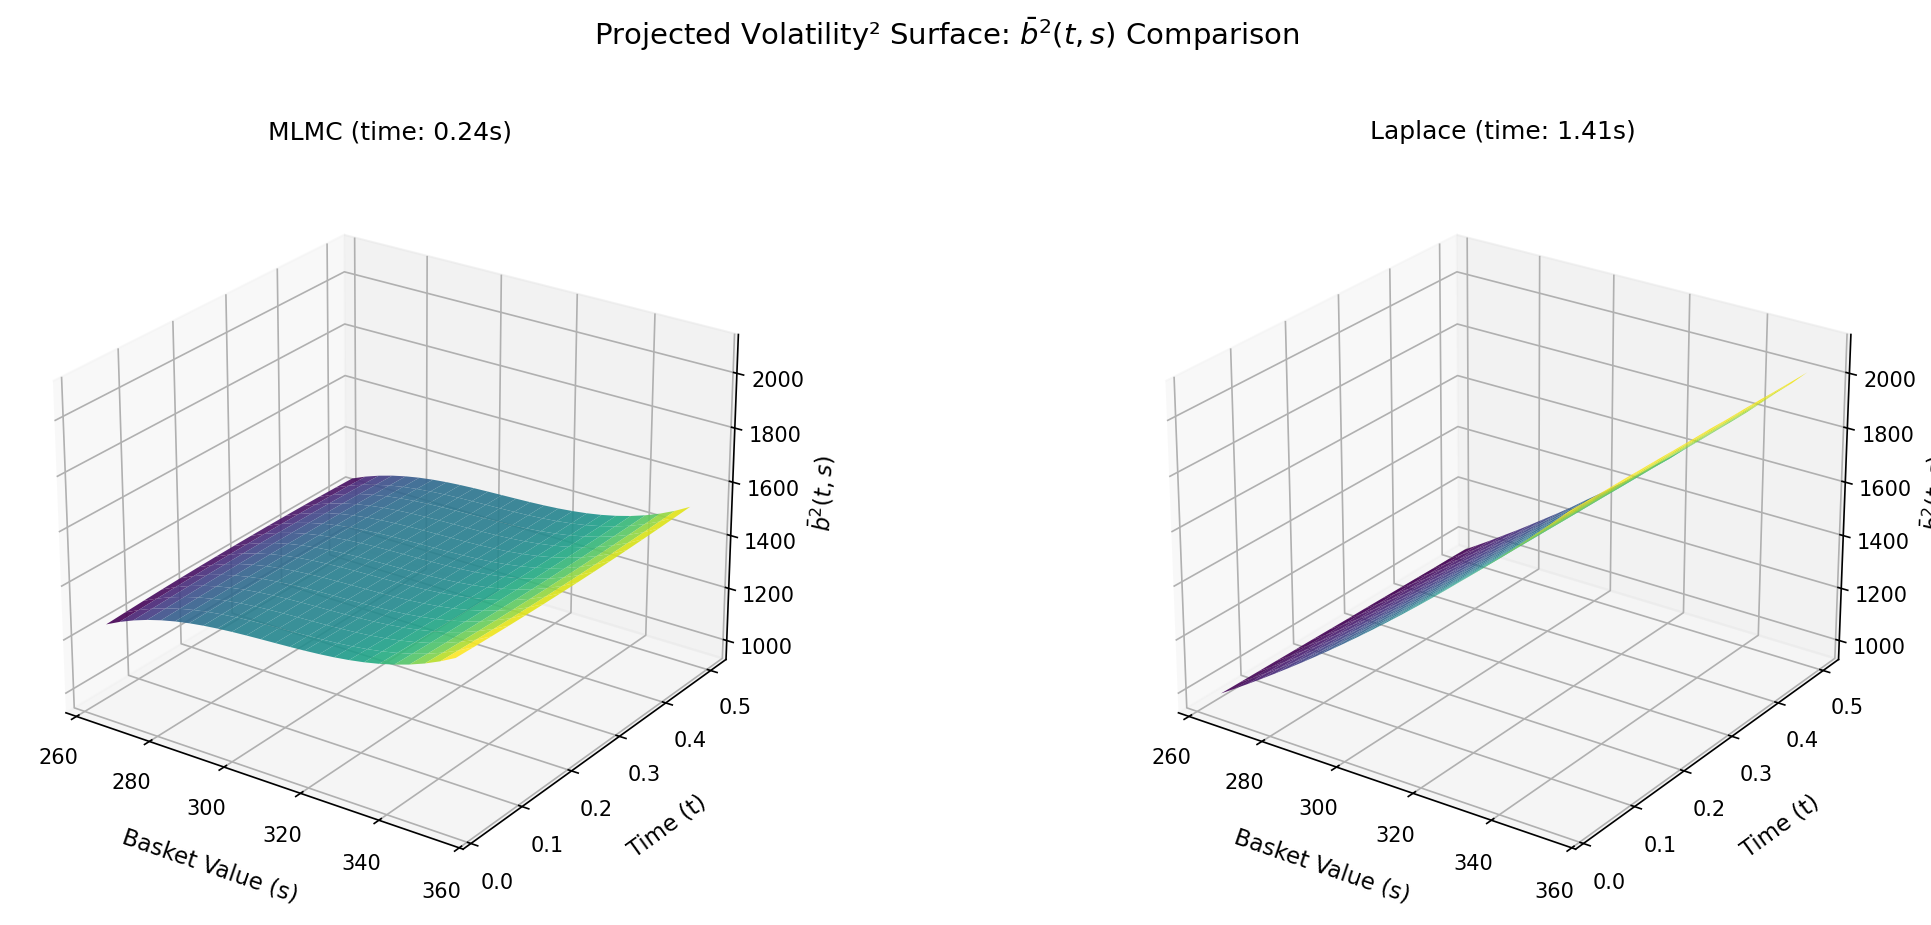
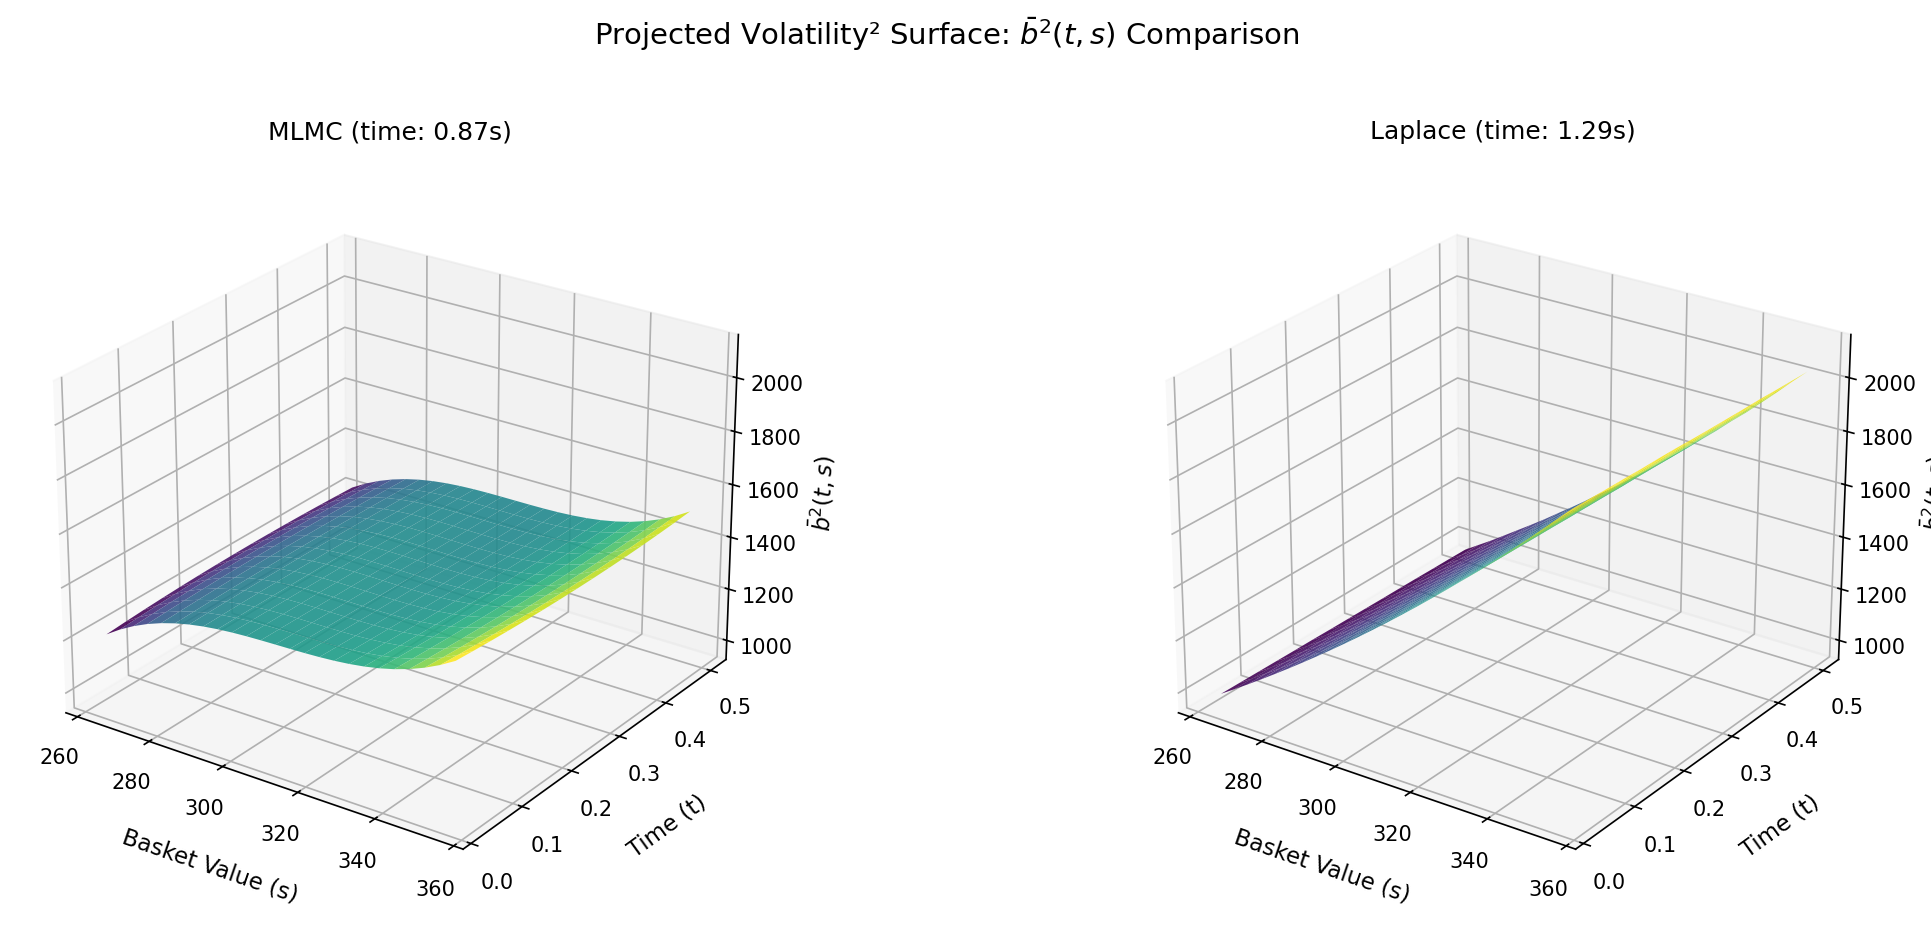
Updated Results

diff --git a/Comparison_Between_Methods/config.py b/Comparison_Between_Methods/config.py
@@ -84,7 +84,23 @@ class ProblemParameters:
     
     # MLMC parameters
     max_degree: int = 3
-    h0: float = 0.1
+    h0: float = 0.05
+
+    """
+    Note on h0 and max_degree relationship:
+    ---------------------------------------
+    At MLMC level 0, we have N_timesteps = T / h0 time points to fit polynomials
+    up to degree max_degree. To avoid ill-conditioning (Runge phenomenon), we need:
+
+        h0 ≤ T / (2 * max_degree + 5)
+
+    Examples for T = 0.5:
+        max_degree = 3  →  h0 ≤ 0.045  (h0 = 0.1 is marginal but works)
+        max_degree = 4  →  h0 ≤ 0.038
+        max_degree = 5  →  h0 ≤ 0.033  (h0 = 0.025 recommended)
+
+    If you see 10^12 blow-ups or negative correlations, reduce h0.
+    """
     
     # Reproducibility
     random_seed: int = 42

diff --git a/Comparison_Between_Methods/results/tables/exp5_parameter_sensitivity.md b/Comparison_Between_Methods/results/tables/exp5_parameter_sensitivity.md
@@ -4,63 +4,63 @@
 
 | Value | L2 Error | L∞ Error | MLMC Time (s) | Laplace Time (s) |
 |-------|----------|----------|---------------|------------------|
-| 0.05 | 0.5079 | 1.6188 | 0.22 | 0.36 |
-| 0.10 | 0.1063 | 0.1658 | 0.22 | 0.35 |
-| 0.15 | 0.1739 | 0.2969 | 0.21 | 0.35 |
-| 0.20 | 0.1985 | 0.3797 | 0.21 | 0.34 |
-| 0.25 | 0.2111 | 0.4192 | 0.21 | 0.34 |
-| 0.30 | 0.2204 | 0.4478 | 0.21 | 0.34 |
-| 0.40 | 0.2391 | 0.5020 | 0.21 | 0.35 |
-| 0.50 | 0.2649 | 0.5677 | 0.22 | 0.37 |
+| 0.05 | 0.5627 | 1.7650 | 0.83 | 0.38 |
+| 0.10 | 0.1018 | 0.1643 | 0.82 | 0.35 |
+| 0.15 | 0.1773 | 0.3022 | 0.86 | 0.35 |
+| 0.20 | 0.2069 | 0.3982 | 0.84 | 0.36 |
+| 0.25 | 0.2222 | 0.4446 | 0.85 | 0.37 |
+| 0.30 | 0.2329 | 0.4748 | 0.82 | 0.35 |
+| 0.40 | 0.2513 | 0.5305 | 0.83 | 0.35 |
+| 0.50 | 0.2709 | 0.5972 | 0.82 | 0.35 |
 
 ## Correlation ($\rho$)
 
 | Value | L2 Error | L∞ Error | MLMC Time (s) | Laplace Time (s) |
 |-------|----------|----------|---------------|------------------|
-| -0.50 | 0.2783 | 0.6705 | 0.22 | 0.43 |
-| -0.25 | 0.2153 | 0.4302 | 0.21 | 0.40 |
-| 0.00 | 0.2014 | 0.3807 | 0.21 | 0.38 |
-| 0.25 | 0.1990 | 0.3735 | 0.22 | 0.37 |
-| 0.50 | 0.1997 | 0.3778 | 0.21 | 0.37 |
-| 0.70 | 0.2010 | 0.3832 | 0.21 | 0.37 |
-| 0.80 | 0.2018 | 0.3863 | 0.22 | 0.36 |
-| 0.90 | 0.2026 | 0.3893 | 0.22 | 0.37 |
+| -0.50 | 0.2792 | 0.5884 | 0.82 | 0.44 |
+| -0.25 | 0.2225 | 0.4238 | 0.82 | 0.40 |
+| 0.00 | 0.2091 | 0.3916 | 0.82 | 0.39 |
+| 0.25 | 0.2070 | 0.3886 | 0.93 | 0.38 |
+| 0.50 | 0.2086 | 0.3961 | 0.82 | 0.37 |
+| 0.70 | 0.2111 | 0.4054 | 0.84 | 0.37 |
+| 0.80 | 0.2124 | 0.4101 | 0.82 | 0.37 |
+| 0.90 | 0.2139 | 0.4149 | 0.83 | 0.37 |
 
 ## Interest Rate (r)
 
 | Value | L2 Error | L∞ Error | MLMC Time (s) | Laplace Time (s) |
 |-------|----------|----------|---------------|------------------|
-| 0.00 | 0.2085 | 0.4148 | 0.21 | 0.37 |
-| 0.02 | 0.2040 | 0.3971 | 0.21 | 0.37 |
-| 0.05 | 0.1997 | 0.3778 | 0.21 | 0.39 |
-| 0.08 | 0.1974 | 0.3652 | 0.22 | 0.37 |
-| 0.10 | 0.1966 | 0.3607 | 0.22 | 0.37 |
-| 0.12 | 0.1962 | 0.3590 | 0.21 | 0.37 |
-| 0.15 | 0.1959 | 0.3572 | 0.22 | 0.37 |
+| 0.00 | 0.2183 | 0.4363 | 0.82 | 0.40 |
+| 0.02 | 0.2133 | 0.4164 | 0.83 | 0.40 |
+| 0.05 | 0.2086 | 0.3961 | 0.84 | 0.37 |
+| 0.08 | 0.2062 | 0.3839 | 0.84 | 0.37 |
+| 0.10 | 0.2055 | 0.3800 | 0.90 | 0.39 |
+| 0.12 | 0.2052 | 0.3774 | 0.84 | 0.37 |
+| 0.15 | 0.2049 | 0.3783 | 0.85 | 0.39 |
 
 ## Maturity (T)
 
 | Value | L2 Error | L∞ Error | MLMC Time (s) | Laplace Time (s) |
 |-------|----------|----------|---------------|------------------|
-| 0.10 | FAILED | - | - | - |
-| 0.25 | FAILED | - | - | - |
-| 0.50 | 0.1997 | 0.3778 | 0.23 | 0.37 |
-| 0.75 | FAILED | - | - | - |
-| 1.00 | 0.2351 | 0.4779 | 0.42 | 0.36 |
-| 1.50 | 0.2400 | 0.4813 | 0.62 | 0.36 |
-| 2.00 | 0.2449 | 0.4702 | 0.83 | 0.36 |
+| 0.10 | 0.1071 | 0.1660 | 0.18 | 0.38 |
+| 0.25 | 0.1720 | 0.2856 | 0.42 | 0.38 |
+| 0.50 | 0.2086 | 0.3961 | 0.86 | 0.40 |
+| 0.75 | 0.2289 | 0.4562 | 1.30 | 0.39 |
+| 1.00 | 0.2354 | 0.4691 | 1.72 | 0.39 |
+| 1.50 | 0.2383 | 0.4745 | 2.65 | 0.40 |
+| 2.00 | 0.2507 | 0.5105 | 3.46 | 0.40 |
 
 ## Moneyness (K/S₀)
 
 | Value | L2 Error | L∞ Error | MLMC Time (s) | Laplace Time (s) |
 |-------|----------|----------|---------------|------------------|
-| 0.80 | 0.1997 | 0.3778 | 0.22 | 0.37 |
-| 0.90 | 0.1997 | 0.3778 | 0.22 | 0.37 |
-| 0.95 | 0.1997 | 0.3778 | 0.22 | 0.37 |
-| 1.00 | 0.1997 | 0.3778 | 0.22 | 0.37 |
-| 1.05 | 0.1997 | 0.3778 | 0.22 | 0.37 |
-| 1.10 | 0.1997 | 0.3778 | 0.22 | 0.37 |
-| 1.20 | 0.1997 | 0.3778 | 0.22 | 0.36 |
+| 0.80 | 0.2086 | 0.3961 | 0.87 | 0.39 |
+| 0.90 | 0.2086 | 0.3961 | 0.84 | 0.42 |
+| 0.95 | 0.2086 | 0.3961 | 0.86 | 0.40 |
+| 1.00 | 0.2086 | 0.3961 | 0.84 | 0.37 |
+| 1.05 | 0.2086 | 0.3961 | 0.84 | 0.39 |
+| 1.10 | 0.2086 | 0.3961 | 0.83 | 0.37 |
+| 1.20 | 0.2086 | 0.3961 | 0.83 | 0.37 |
 
 ## Key Observations
 

diff --git a/Comparison_Between_Methods/results/tables/exp4_option_prices.md b/Comparison_Between_Methods/results/tables/exp4_option_prices.md
@@ -12,16 +12,16 @@
 
 | S | MLMC Price | Laplace Price | Difference | Diff (%) |
 |---|------------|---------------|------------|----------|
-| 263.7 | 36.3214 | 36.3214 | 0.0000 | 0.00 |
-| 263.7 | 36.3214 | 36.3214 | 0.0000 | 0.00 |
-| 270.1 | 29.9112 | 29.9112 | 0.0000 | 0.00 |
-| 300.3 | 7.5043 | 7.4941 | 0.0103 | 0.14 |
-| 329.6 | 0.9361 | 1.1201 | 0.1841 | 16.43 |
-| 354.3 | 0.0143 | 0.0214 | 0.0072 | 33.36 |
-| 354.3 | 0.0143 | 0.0214 | 0.0072 | 33.36 |
+| 263.5 | 36.5437 | 36.5437 | 0.0000 | 0.00 |
+| 263.5 | 36.5437 | 36.5437 | 0.0000 | 0.00 |
+| 270.0 | 30.0259 | 30.0259 | 0.0000 | 0.00 |
+| 299.8 | 7.7404 | 7.7202 | 0.0202 | 0.26 |
+| 329.6 | 0.9332 | 1.1279 | 0.1946 | 17.26 |
+| 355.6 | 0.0125 | 0.0196 | 0.0072 | 36.44 |
+| 355.6 | 0.0125 | 0.0196 | 0.0072 | 36.44 |
 
 ## Statistics
 
-- Mean absolute difference: 0.0966
-- Max absolute difference: 0.1985
-- Mean percentage difference: 9.48%
+- Mean absolute difference: 0.1012
+- Max absolute difference: 0.2081
+- Mean percentage difference: 10.42%

diff --git a/Comparison_Between_Methods/results/tables/exp2_convergence_stats.md b/Comparison_Between_Methods/results/tables/exp2_convergence_stats.md
@@ -5,24 +5,24 @@
 | Statistic | Value |
 |-----------|-------|
 | Number of runs | 20 |
-| Mean L2 error (individual) | 0.183579 |
-| Std L2 error | 0.003359 |
-| Final running avg L2 | 0.183491 |
-| Mean time per run | 0.22 s |
-| Total computation time | 4.5 s |
+| Mean L2 error (individual) | 0.191955 |
+| Std L2 error | 0.003473 |
+| Final running avg L2 | 0.191869 |
+| Mean time per run | 0.88 s |
+| Total computation time | 17.6 s |
 
 ## Running Average L2 Errors
 
 | n | L2 Error |
 |---|----------|
-| 1 | 0.182686 |
-| 2 | 0.184305 |
-| 3 | 0.183202 |
-| 4 | 0.183129 |
-| 5 | 0.181704 |
-| 6 | 0.182889 |
-| 11 | 0.183321 |
-| 16 | 0.183621 |
-| 18 | 0.183648 |
-| 19 | 0.183663 |
-| 20 | 0.183491 |
+| 1 | 0.190519 |
+| 2 | 0.189094 |
+| 3 | 0.190819 |
+| 4 | 0.191321 |
+| 5 | 0.190189 |
+| 6 | 0.189780 |
+| 11 | 0.190683 |
+| 16 | 0.191876 |
+| 18 | 0.191872 |
+| 19 | 0.191773 |
+| 20 | 0.191869 |

diff --git a/Comparison_Between_Methods/results/tables/exp1_metrics.md b/Comparison_Between_Methods/results/tables/exp1_metrics.md
@@ -4,12 +4,12 @@
 
 | Metric | Value |
 |--------|-------|
-| L2 relative error | 0.191101 |
-| L∞ error | 512.3970 |
-| Mean absolute difference | 235.1078 |
-| Mean relative difference | 16.10% |
-| Bias (MLMC - Laplace) | -89.7278 |
-| Pearson correlation | 0.9482 |
+| L2 relative error | 0.200442 |
+| L∞ error | 544.0810 |
+| Mean absolute difference | 244.3400 |
+| Mean relative difference | 16.63% |
+| Bias (MLMC - Laplace) | -105.2961 |
+| Pearson correlation | 0.9078 |
 | Valid grid fraction | 100.0% |
 
 ## Parameters
@@ -36,7 +36,7 @@ Problem Parameters (Bayer et al. 2017, Eq. 56)
 
   PDE grid: 50 × 100
   MLMC max degree: 3
-  MLMC coarsest timestep: h0 = 0.1
+  MLMC coarsest timestep: h0 = 0.025
   Random seed: 42
 ============================================================
 ```

diff --git a/Comparison_Between_Methods/results/tables/exp3_dimension_scaling.md b/Comparison_Between_Methods/results/tables/exp3_dimension_scaling.md
@@ -4,10 +4,10 @@
 
 | d | MLMC Time (s) | Laplace Time (s) | L2 Error | L∞ Error |
 |---|---------------|------------------|----------|----------|
-| 2 | 0.22 | 0.58 | 0.1984 | 0.3775 |
-| 3 | 0.22 | 1.24 | 0.1911 | 0.3570 |
-| 5 | 0.24 | 2.83 | 0.1347 | 0.2511 |
-| 10 | 0.29 | 9.60 | 0.0904 | 0.1702 |
+| 2 | 0.83 | 0.59 | 0.2073 | 0.3964 |
+| 3 | 0.87 | 1.25 | 0.2004 | 0.3793 |
+| 5 | 0.94 | 2.91 | 0.1351 | 0.2450 |
+| 10 | 1.14 | 9.59 | 0.0914 | 0.1633 |
 
 ## Key Observations
 
